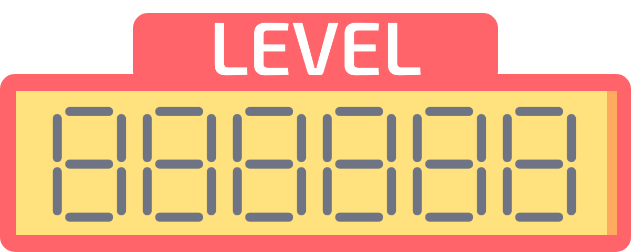
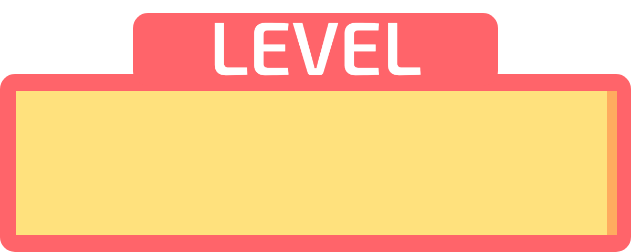
Modifica bottoni board
Modificati i bottoni board. Ora non caricano più le immagini ma usano un testo con un font. Cambiato colore da bianco a nero delle cifre

Changed region(s): [[0.0602, 0.4167, 0.9334, 0.8889]]

diff --git a/frontend/src/app/game/components/board/board.component.ts b/frontend/src/app/game/components/board/board.component.ts
@@ -13,6 +13,8 @@ export class BoardComponent implements OnInit, OnDestroy {
   maxValue: number = 0;
   /**Valore di ogni numero*/
   valueNumbers: number[] = [];
+  /**Numero da mostrare*/
+  valueNumbersString: string = "";
 
   /**Subscription dell'evento di cambiamento*/
   private onChangeSubscription: Subscription;
@@ -25,7 +27,7 @@ export class BoardComponent implements OnInit, OnDestroy {
   constructor() { }
 
   ngOnInit(): void {
-    this.loadMaxValue();
+    this.loadMaxValueAndFont();
     this.resetValueNumbers();
     // Evento per l'aggiornamento
     if (this.onChange != null) {
@@ -43,11 +45,17 @@ export class BoardComponent implements OnInit, OnDestroy {
   /**
    * Imposta il valore massimo
    */
-  loadMaxValue() {
+  loadMaxValueAndFont() {
     switch(this.boardType) {
-      case BoardType.Time: this.maxValue = BoardTypeMaxValue.Time; break;
-      case BoardType.Score: this.maxValue = BoardTypeMaxValue.Score; break;
-      case BoardType.Level: this.maxValue = BoardTypeMaxValue.Level; break;
+      case BoardType.Time:
+        this.maxValue = BoardTypeMaxValue.Time;
+        break;
+      case BoardType.Score:
+        this.maxValue = BoardTypeMaxValue.Score;
+        break;
+      case BoardType.Level:
+        this.maxValue = BoardTypeMaxValue.Level;
+        break;
     }
   }
 
@@ -71,8 +79,7 @@ export class BoardComponent implements OnInit, OnDestroy {
    */
   updateValueNumbers(data: OnChangeBoard) {
     // Numero corrente
-    const valueNumbersString = this.valueNumbers.map(item => item > -1 ? item.toString() : "");
-    let currentNumber = parseInt(valueNumbersString.join(''));
+    let currentNumber = parseInt(this.valueNumbersToString(false));
     // Modifica i dati
     if(!data.reset && !data.resetWithValue) {
       currentNumber += data.value;
@@ -98,8 +105,10 @@ export class BoardComponent implements OnInit, OnDestroy {
     } else {
       this.resetValueNumbers();
     }
+    // Aggiorna il numero da mostrare
+    this.valueNumbersString = this.valueNumbersToString();
   }
-  
+
 
   /**
    * Resetta valueNumbers
@@ -108,30 +117,24 @@ export class BoardComponent implements OnInit, OnDestroy {
     for(let i = 0; i < 6; i++) {
       this.valueNumbers.push(this.boardType === BoardType.Time && (i === 0 || i === 5) ? -1 : 0);
     }
+    this.valueNumbersString = this.valueNumbersToString();
   }
 
   /**
-   * Ottiene la posizione in base all'indice dell'array
-   * @param index
+   * Converte in stringa il numero rappresentato nel array
    */
-  getXPosition(index: number): string {
-    const increment = index > 2 ? (this.boardType !== BoardType.Level ? 6 : 2) : 0;
-    const startPoint = this.boardType === BoardType.Level ? 14 : 12;
-    const eachRowIncrement = this.boardType === BoardType.Level ? 24 : 24
-    const newPosition = startPoint + (eachRowIncrement * index) + increment;
-    return `${newPosition}px`;
-  }
-
-  /**
-   * Ottiene il valore da assegnare al background del number-container
-   * @param index Indice all'interno dell'array
-   */
-  getBackground(index: number): string {
-    if (this.valueNumbers[index] < 0) {
-      return '#FEDE7D';
-    } else {
-      return `url(../assets/game/numbers/${this.valueNumbers[index]}.png)`
+  valueNumbersToString(addSignature: boolean = true): string {
+    let newValue = this.valueNumbers.map(item => item > -1 ? item.toString() : "").join('');
+    if (addSignature) {
+      if (this.boardType == BoardType.Time) {
+        newValue = `${newValue.slice(0, 2)} : ${newValue.slice(2, 4)}`
+      } else if (this.boardType == BoardType.Score) {
+        newValue = `${newValue.slice(0, 3)}.${newValue.slice(3, 6)}`
+      } else if (this.boardType == BoardType.Level) {
+        newValue = parseInt(newValue).toString();
+      }
     }
+    return newValue;
   }
 
 }

diff --git a/frontend/src/app/app-routing.module.ts b/frontend/src/app/app-routing.module.ts
@@ -3,10 +3,6 @@ import { RouterModule, Routes } from '@angular/router';
 import { HomeComponent } from './components/home/home.component';
 import { LoginComponent } from './auth/components/login/login.component';
 import {HomeGameComponent} from "./game/components/home-game/home-game.component";
-import {UserGuard} from "./auth/guards/user.guard";
-import {ButtonComponent} from "./shared/button/button.component";
-import {LoseComponent} from "./dialogs/lose/lose.component";
-import {CompleteLevelComponent} from "./dialogs/complete-level/complete-level.component";
 
 const routes: Routes = [
   {

diff --git a/frontend/src/app/game/components/board/board.component.css b/frontend/src/app/game/components/board/board.component.css
@@ -1,13 +1,21 @@
+@font-face {
+  font-family: "Orbitron";
+  src: local("Orbitron"), url(src/assets/fonts/Orbitron/Orbitron-VariableFont_wght.ttf) format("truetype");
+}
+
 .board-container {
   width: 172px;
   height: 67px;
   background-size: cover;
   position: relative;
 }
-.number-container {
-  width: 22px;
-  height: 34px;
+.board-title {
+  width: 172px;
+  font-size: 29px;
   position: absolute;
-  top: 27px;
-  background-size: cover !important;
+  top: 100%;
+  text-align: center;
+  transform: translateY(-100%);
+  font-family: 'Orbitron', serif;
+  padding-bottom: 6px;
 }

diff --git a/frontend/src/app/game/components/board/board.component.html b/frontend/src/app/game/components/board/board.component.html
@@ -1,8 +1,4 @@
 <div class="board-container" [style.background-image]="getImageUrl()">
-  <!--Contenitori dei numeri-->
-  <ng-container *ngFor="let n of valueNumbers; let i = index">
-    <div class="number-container" [style.left]="getXPosition(i)" [style.background]="getBackground(i)">
-
-    </div>
-  </ng-container>
+  <!--Testo contenente i numeri-->
+  <h1 class="board-title">{{valueNumbersString}}</h1>
 </div>
